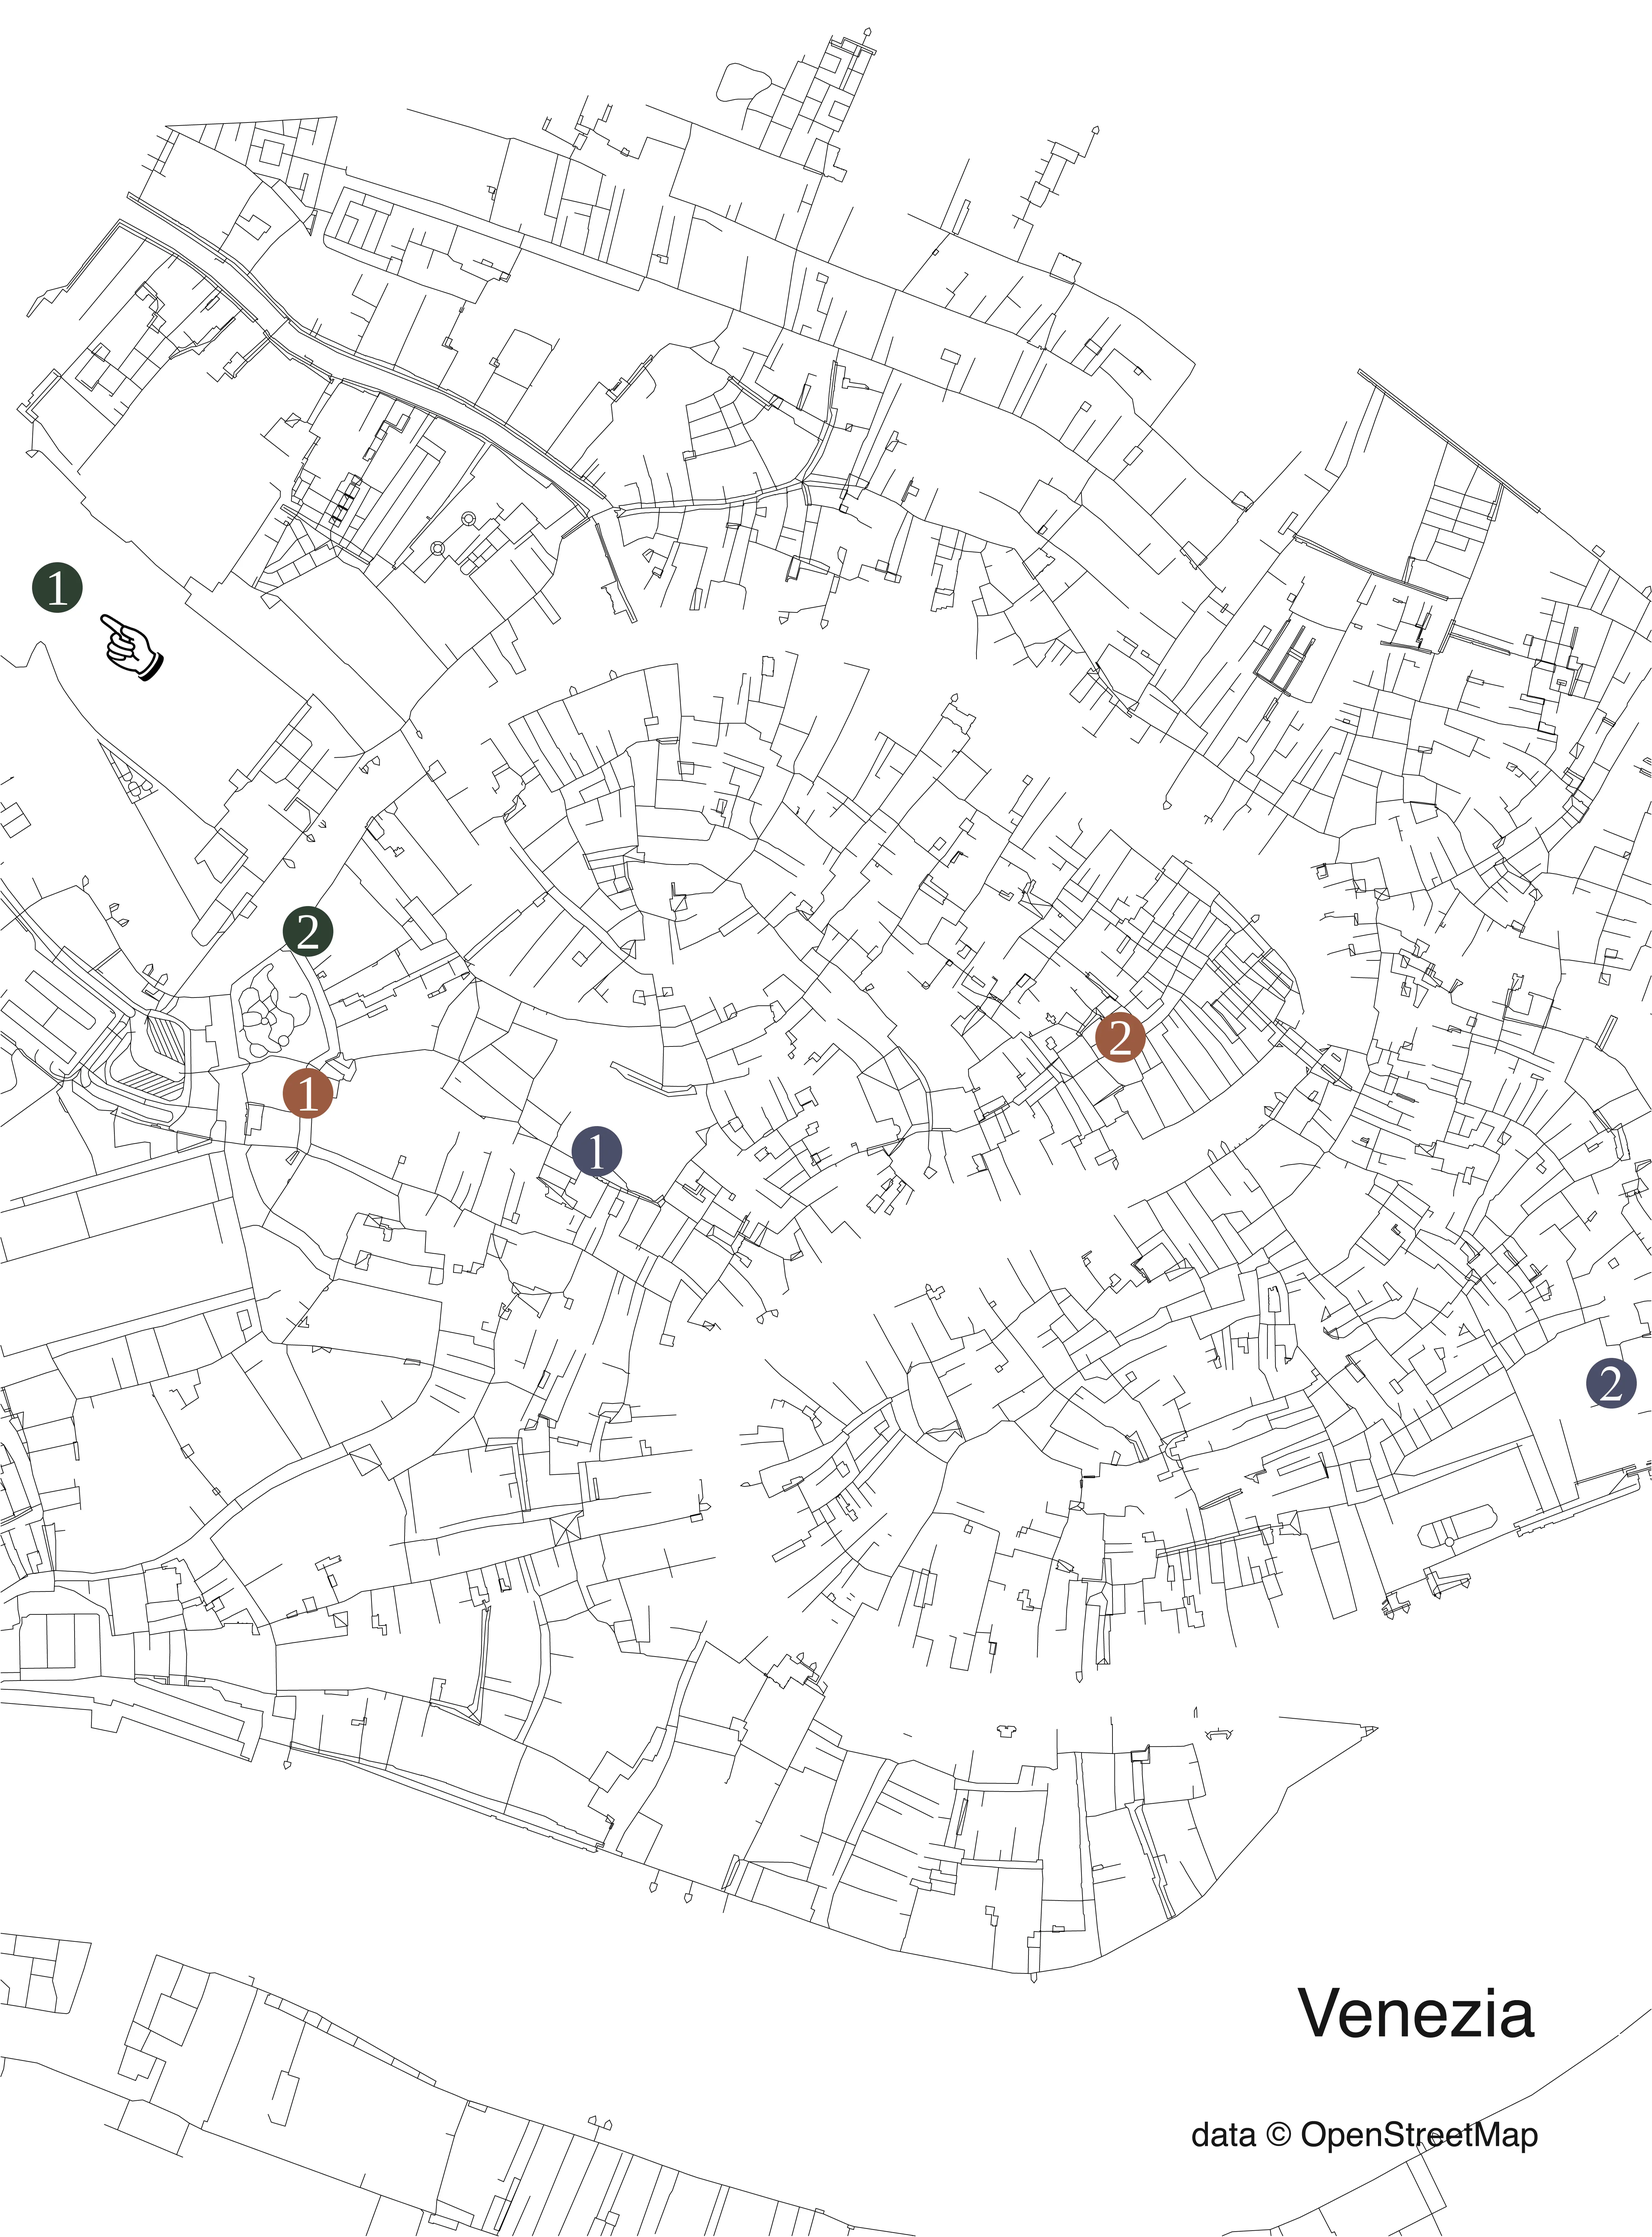
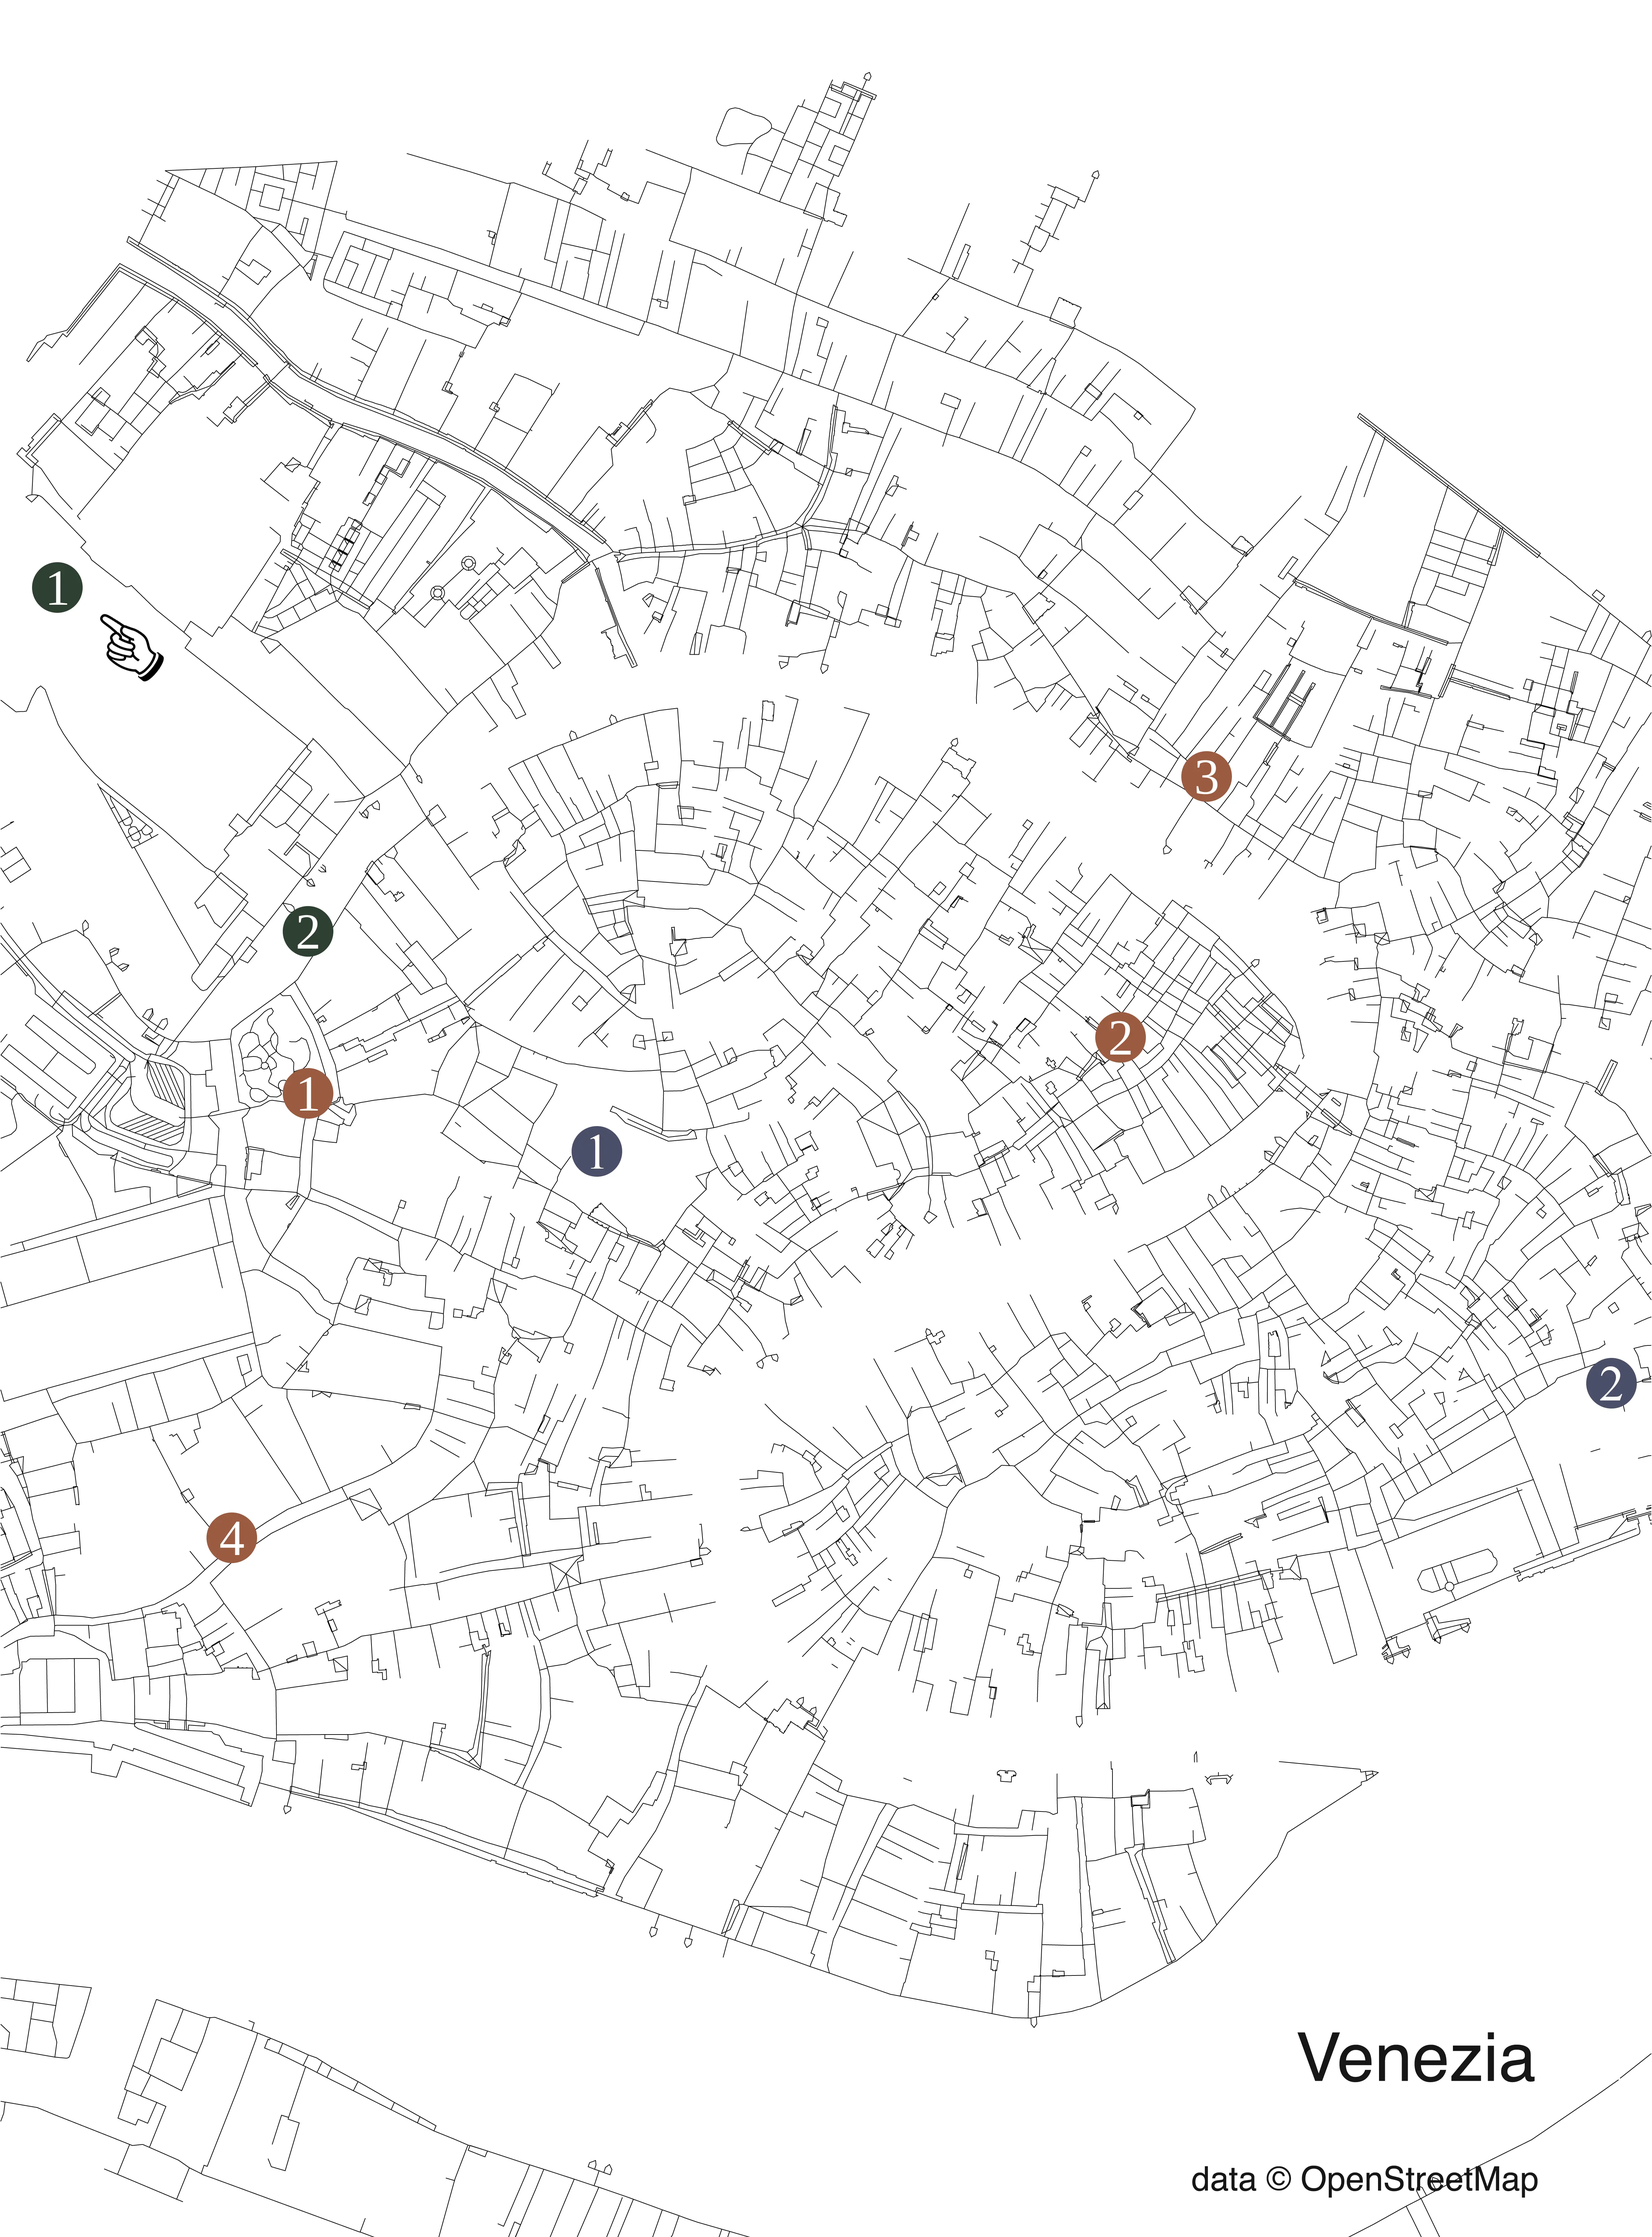
.

diff --git a/travel/admin.html b/travel/admin.html
@@ -1,0 +1,205 @@
+<!DOCTYPE html>
+<html lang="tr">
+<head>
+    <meta charset="UTF-8">
+    <meta name="viewport" content="width=device-width, initial-scale=1.0">
+    <title>İtalya Rehberi | Admin Paneli</title>
+    <link href="https://fonts.googleapis.com/css2?family=Crimson+Pro:wght@400;600&display=swap" rel="stylesheet">
+    <style>
+        :root {
+            --bg: #f8f9fa;
+            --card: #ffffff;
+            --text: #1a1a1a;
+            --accent: #000000;
+            --border: #e5e5e5;
+        }
+
+        body {
+            font-family: 'Crimson Pro', serif;
+            background-color: var(--bg);
+            color: var(--text);
+            margin: 0;
+            padding: 20px;
+            display: flex;
+            justify-content: center;
+        }
+
+        .admin-container {
+            max-width: 800px;
+            width: 100%;
+            background: var(--card);
+            padding: 40px;
+            border-radius: 12px;
+            box-shadow: 0 4px 20px rgba(0,0,0,0.05);
+            border: 1px solid var(--border);
+        }
+
+        h1 { font-weight: 600; border-bottom: 1px solid var(--border); padding-bottom: 15px; margin-bottom: 25px; }
+
+        .form-group { margin-bottom: 20px; }
+        label { display: block; font-weight: 600; margin-bottom: 8px; font-size: 0.9rem; text-transform: uppercase; letter-spacing: 0.5px; }
+        
+        input, select, textarea {
+            width: 100%;
+            padding: 12px;
+            border: 1px solid var(--border);
+            border-radius: 6px;
+            font-family: inherit;
+            font-size: 1rem;
+            outline: none;
+            transition: border-color 0.2s;
+        }
+
+        input:focus, select:focus, textarea:focus { border-color: var(--accent); }
+
+        .btn {
+            background: var(--accent);
+            color: white;
+            border: none;
+            padding: 15px 25px;
+            border-radius: 6px;
+            font-weight: 600;
+            cursor: pointer;
+            width: 100%;
+            font-size: 1rem;
+            transition: opacity 0.2s;
+        }
+
+        .btn:hover { opacity: 0.8; }
+
+        .output-section {
+            margin-top: 30px;
+            display: none;
+        }
+
+        pre {
+            background: #f1f1f1;
+            padding: 15px;
+            border-radius: 6px;
+            overflow-x: auto;
+            font-size: 0.85rem;
+            border: 1px solid var(--border);
+            position: relative;
+        }
+
+        .copy-hint {
+            font-size: 0.8rem;
+            color: #666;
+            margin-bottom: 10px;
+            display: block;
+        }
+
+        .row { display: grid; grid-template-columns: 1fr 1fr; gap: 20px; }
+
+        @media (max-width: 600px) {
+            .row { grid-template-columns: 1fr; }
+        }
+    </style>
+</head>
+<body>
+
+<div class="admin-container">
+    <h1>Yeni Deneyim Ekle</h1>
+    
+    <div class="row">
+        <div class="form-group">
+            <label>Şehir</label>
+            <select id="city">
+                <option value="roma">Roma</option>
+                <option value="floransa">Floransa</option>
+                <option value="venedik">Venedik</option>
+            </select>
+        </div>
+        <div class="form-group">
+            <label>Kategori</label>
+            <select id="category">
+                <option value="yemek">Yeme-İçme</option>
+                <option value="muze">Müzeler & Gezi</option>
+                <option value="otel">Konaklama</option>
+            </select>
+        </div>
+    </div>
+
+    <div class="form-group">
+        <label>Mekan/Deneyim Adı (Örn: ❶ Trattoria Dall'Oste)</label>
+        <input type="text" id="name" placeholder="Numaralı ve ikonlu yazabilirsiniz">
+    </div>
+
+    <div class="form-group">
+        <label>Görsel Linkleri (Virgülle ayırın)</label>
+        <input type="text" id="img" placeholder="images/resim1.jpg, images/resim2.jpg">
+    </div>
+
+    <div class="form-group">
+        <label>Açıklama</label>
+        <textarea id="desc" rows="4" placeholder="Deneyiminizi buraya yazın..."></textarea>
+    </div>
+
+    <div class="form-group">
+        <label>Meta Bilgi (Adres/Uyarı)</label>
+        <input type="text" id="meta" placeholder="📍 Adres veya ❗ Önemli bir not">
+    </div>
+
+    <div class="form-group">
+        <label>Linkler (Format: İsim|URL - Her satıra bir tane)</label>
+        <textarea id="links" rows="3" placeholder="Google Maps|https://...&#10;Menü|https://..."></textarea>
+    </div>
+
+    <button class="btn" onclick="generateCode()">KODU OLUŞTUR</button>
+
+    <div id="outputSection" class="output-section">
+        <span class="copy-hint">Aşağıdaki kodu kopyalayıp index.html içindeki <b>cityData</b> objesinde ilgili kategori listesinin sonuna yapıştırın:</span>
+        <pre id="resultCode"></pre>
+        <button class="btn" style="background: #28a745; margin-top: 10px;" onclick="copyToClipboard()">KODU KOPYALA</button>
+    </div>
+</div>
+
+<script>
+    function generateCode() {
+        const name = document.getElementById('name').value;
+        const imgInput = document.getElementById('img').value;
+        const desc = document.getElementById('desc').value;
+        const meta = document.getElementById('meta').value;
+        const linksInput = document.getElementById('links').value;
+
+        // Görselleri diziye çevir
+        let img;
+        const imgs = imgInput.split(',').map(s => s.trim()).filter(s => s !== "");
+        if (imgs.length === 0) img = "";
+        else if (imgs.length === 1) img = imgs[0];
+        else img = imgs;
+
+        // Linkleri objeye çevir
+        const links = linksInput.split('\n')
+            .filter(line => line.includes('|'))
+            .map(line => {
+                const [label, url] = line.split('|');
+                return { label: label.trim(), url: url.trim() };
+            });
+
+        const entry = {
+            name,
+            img,
+            desc,
+            meta,
+            links
+        };
+
+        // JSON formatına getir ve başına virgül ekle (listeye ekleme kolaylığı için)
+        const jsonOutput = ",\n" + JSON.stringify(entry, null, 16).replace(/}$/, "                }");
+        
+        document.getElementById('resultCode').innerText = jsonOutput;
+        document.getElementById('outputSection').style.display = 'block';
+        document.getElementById('outputSection').scrollIntoView({ behavior: 'smooth' });
+    }
+
+    function copyToClipboard() {
+        const text = document.getElementById('resultCode').innerText;
+        navigator.clipboard.writeText(text).then(() => {
+            alert("Kod kopyalandı! Şimdi index.html içine yapıştırabilirsin.");
+        });
+    }
+</script>
+
+</body>
+</html>

diff --git a/travel/index.html b/travel/index.html
@@ -231,6 +231,25 @@
             background: #f9f9f9;
         }
 
+        .vertical-images-grid {
+            display: grid;
+            grid-template-columns: repeat(2, 1fr);
+            gap: 20px;
+            width: calc(100% + 200px);
+            max-width: 1000px;
+            margin-left: -100px;
+            margin-bottom: 1.5rem;
+        }
+
+        .vertical-images-grid img {
+            width: 100%;
+            height: auto;
+            aspect-ratio: 3 / 4;
+            object-fit: cover;
+            border-radius: 2px;
+            background: #f9f9f9;
+        }
+
         .venue-description {
             color: var(--text-main);
             font-size: 1.15rem;
@@ -343,7 +362,7 @@
         }
 
         @media (max-width: 1000px) {
-            .venue-image, .dual-image-container, .triple-image-layout {
+            .venue-image, .dual-image-container, .triple-image-layout, .vertical-images-grid {
                 width: 100%;
                 margin-left: 0;
             }
@@ -360,6 +379,7 @@
         @media (max-width: 480px) {
             .dual-image-container, .triple-image-bottom { flex-direction: column; gap: 15px; }
             .dual-image-container img, .triple-image-bottom img { width: 100%; }
+            .vertical-images-grid { grid-template-columns: 1fr; }
             .nav-links, .sub-nav-links { gap: 0.8rem; }
             .nav-links a { font-size: 0.8rem; }
             .sub-nav-links a { font-size: 0.7rem; }
@@ -728,6 +748,24 @@
                         links: [
                             { label: "Google Maps", url: "https://maps.app.goo.gl/s8FMvs5TWxyVJss37" }
                         ]
+                    },
+                    {
+                        name: "<span style='color: #9a5b40;'>❸</span> Ca' d'oro Alla Vedova",
+                        img: ["images/veneziavedova.webp", "images/veneziavedova2.webp", "images/veneziavedova3.webp", "images/veneziavedova4.webp"],
+                        desc: "Venedik'li bir arkadaşımın önerisi olan Alla Vedova (Dulun Yeri), Venedik’in en eski ve en ikonik cicchetti mekanlarından biridir. Burası Venedik’in en iyi Polpette (et köftesi) yapan yeri kabul edilir. Bar kısmında ayaküstü bir kadeh şarap (ombra) ve köfte yemek bir ritüeldir. Masaya oturursanız Bigoli in salsa (soğanlı ve ansüezli makarna) mutlaka denenmeli.",
+                        meta: "📍 Ramo Ca' d'Oro, 3912, 30121 Venezia VE",
+                        links: [
+                            { label: "Google Maps", url: "https://maps.app.goo.gl/dwqYYYAbAzouybSd7" }
+                        ]
+                    },
+                    {
+                        name: "<span style='color: #9a5b40;'>❹</span> Osteria Da Codroma",
+                        img: ["images/veneziacodroma.webp"],
+                        desc: "Yine Venedik'li bir arkadaşımın önerisi olan Osteria da Codroma 18. yüzyıldan kalma tarihi bir tavernadır. Akademisyenlerin, sanatçıların ve yerel halkın uğrak noktasıdır. Uzun ahşap masaları ve samimi bir mahalle havası vardır. Geleneksel \"Cucina Casalinga\" (ev yapımı mutfak) hakimdir. Ana yemekte mürekkep balıklı risotto denenebilir.",
+                        meta: "📍 Fondamenta Briati, 2540, 30123 Venezia VE",
+                        links: [
+                            { label: "Google Maps", url: "https://maps.app.goo.gl/ej9m8to5rdDRsPEH6" }
+                        ]
                     }
                 ],
                 otel: [
@@ -795,21 +833,24 @@
         let imgHtml = '';
         
         // Çoklu resim düzenleri (Müze/Yemek kategorileri için)
-        if (item.layout === "triple" && Array.isArray(item.img)) {
+        if (item.layout === "triple" && Array.isArray(item.img) && item.img.length === 3) {
             imgHtml = `
                 <div class="triple-image-layout">
-                    <img src="${item.img[0]}" class="triple-image-top">
+                    <img src="${item.img[0]}" class="triple-image-top" onerror="this.src='https://via.placeholder.com/400x600?text=Gorsel+Yok'">
                     <div class="triple-image-bottom">
-                        <img src="${item.img[1]}">
-                        <img src="${item.img[2]}">
+                        <img src="${item.img[1]}" onerror="this.src='https://via.placeholder.com/400x600?text=Gorsel+Yok'">
+                        <img src="${item.img[2]}" onerror="this.src='https://via.placeholder.com/400x600?text=Gorsel+Yok'">
                     </div>
                 </div>`;
+        } else if (Array.isArray(item.img) && item.img.length === 1) {
+            imgHtml = `<img src="${item.img[0]}" class="venue-image" onerror="this.style.display='none'">`;
         } else if (Array.isArray(item.img)) {
-            imgHtml = `<div class="dual-image-container">
-                <img src="${item.img[0]}">
-                <img src="${item.img[1]}">
-            </div>`;
-        } 
+            imgHtml = `<div class="vertical-images-grid">`;
+            item.img.forEach(src => {
+                imgHtml += `<img src="${src}" onerror="this.src='https://via.placeholder.com/400x600?text=Gorsel+Yok'">`;
+            });
+            imgHtml += `</div>`;
+        }
         // Tek resim ama dikey değil (Geniş Resim) durumunda normal venue-image sınıfını kullanır
         else if (item.img) {
             imgHtml = `<img src="${item.img}" class="venue-image" onerror="this.style.display='none'">`;
